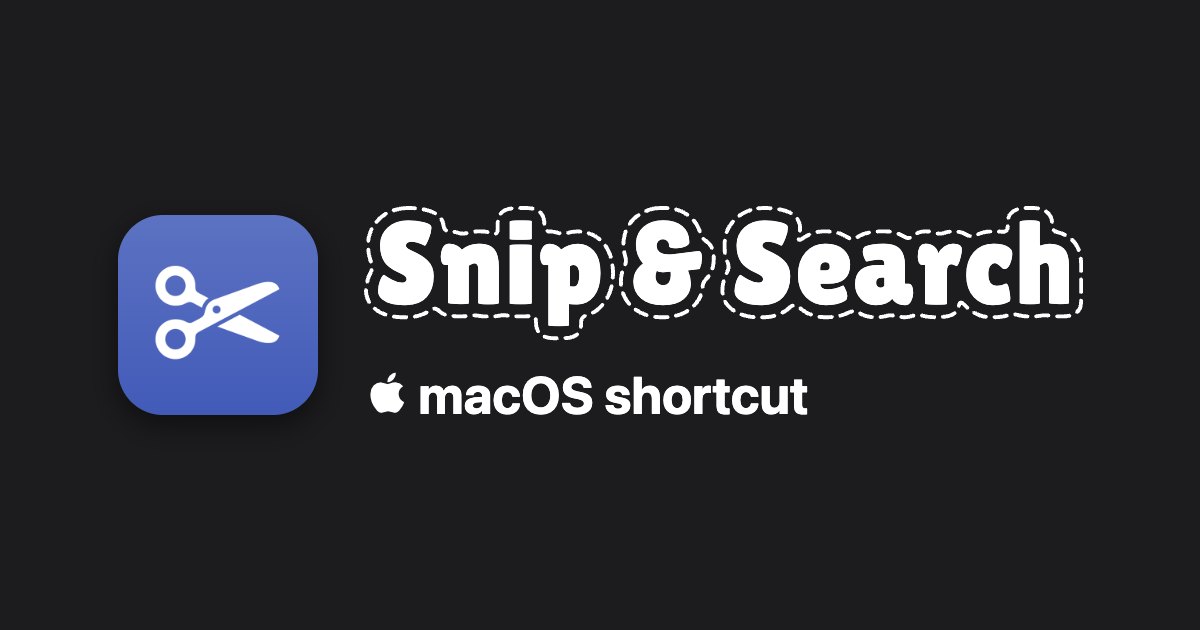
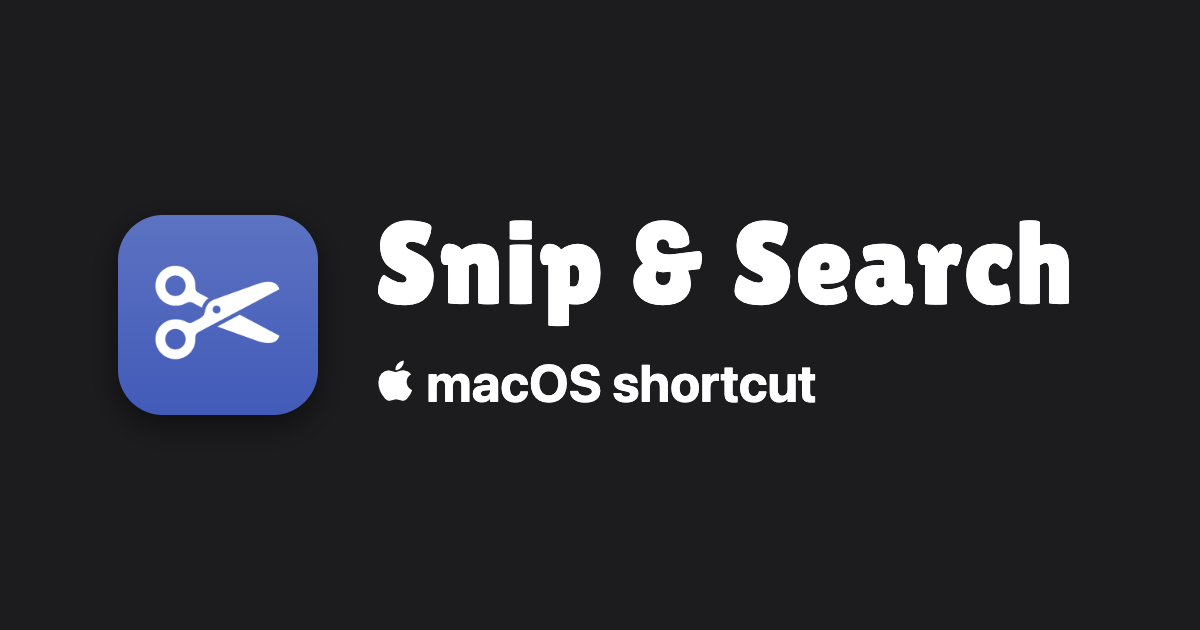
Drop the dashed outline from the title
With the shortcut's icon above it, the dashed "cut line" around the title
said "snip" twice. The title is now plain Lilita One (its viewBox cropped
to the letters), and the icon carries the idea. The link-preview image is
the updated portfolio card.

Claude-Session: https://claude.ai/code/session_01KeDHaCGVo6TUvr9Zcw6bTd

diff --git a/index.html b/index.html
@@ -61,31 +61,19 @@
 				/>
 				<h1>
 					<span class="visuallyHidden">Snip &amp; Search</span>
-					<!-- Same title as the portfolio project card
-					     (Personal-Site/scripts/images/templates/snipAndSearch.html):
-					     white Lilita One lettering with a dashed "cut line" traced
-					     around it. The outline path is copied from that template;
-					     viewBox crops the 1200x630 card to just the title. -->
+					<!-- The title in Lilita One, matching the portfolio project card
+					     (Personal-Site/scripts/images/templates/snipAndSearch.html).
+					     viewBox crops tightly around the letters. -->
 					<svg
 						id="title"
-						viewBox="128 196 940 190"
+						viewBox="152 220 892 142"
 						aria-hidden="true"
 						focusable="false"
 					>
-						<path
-							d="M186.5,208.0L188.5,207.8L190.5,207.7L192.5,207.5L194.5,207.5L196.5,207.5L198.5,207.6L200.5,207.7L202.5,207.9L204.5,208.0L206.5,208.3L208.5,208.6L210.5,208.9L212.5,209.2L214.5,209.5L216.5,210.0L218.5,210.5L220.5,211.0L222.5,211.7L224.5,212.5L226.5,213.4L228.5,214.5L230.4,215.8L232.3,217.3L234.0,218.9L235.4,220.7L236.7,222.5L237.7,224.5L238.3,226.5L238.9,228.5L239.2,230.5L239.6,232.4L240.3,234.0L241.1,235.3L242.3,236.3L243.7,237.0L245.5,237.4L247.5,237.5L249.5,237.7L251.5,237.9L253.5,238.2L255.5,238.7L257.5,239.3L259.5,239.8L261.5,240.2L263.5,240.3L265.5,240.3L267.5,240.0L269.5,239.7L271.5,239.0L273.5,238.6L275.5,238.2L277.5,237.9L279.5,237.7L281.5,237.6L283.5,237.5L285.5,237.5L287.5,237.5L289.5,237.6L291.5,237.7L293.5,238.0L295.5,238.3L297.5,238.7L299.5,239.3L301.5,240.1L303.4,240.5L305.0,240.6L306.3,240.2L307.3,239.4L308.0,238.2L308.4,236.5L308.5,234.5L308.5,232.5L308.5,230.5L308.5,228.5L308.5,226.5L308.7,224.5L308.9,222.5L309.3,220.5L310.0,218.5L311.0,216.6L312.3,214.8L313.8,213.2L315.6,211.8L317.5,210.7L319.5,209.8L321.5,209.1L323.5,208.6L325.5,208.2L327.5,207.9L329.5,207.7L331.5,207.6L333.5,207.5L335.5,207.5L337.5,207.5L339.5,207.5L341.5,207.5L343.5,207.5L345.5,207.5L347.5,207.7L349.5,207.8L351.5,208.0L353.5,208.3L355.5,208.8L357.5,209.5L359.5,210.4L361.3,211.6L363.0,213.0L364.5,214.7L365.7,216.5L366.7,218.5L367.3,220.5L367.8,222.5L368.1,224.5L368.3,226.5L368.4,228.5L368.5,230.5L368.6,232.5L369.0,234.1L369.7,235.4L370.7,236.4L372.0,237.1L373.6,237.5L375.5,237.7L377.5,237.7L379.5,238.0L381.5,238.3L383.5,238.7L385.5,239.3L387.5,239.9L389.5,240.2L391.5,240.3L393.5,240.3L395.5,240.0L397.5,239.7L399.5,239.1L401.5,238.7L403.5,238.3L405.5,238.0L407.5,237.8L409.5,237.7L411.5,237.5L413.5,237.7L415.5,237.8L417.5,238.0L419.5,238.3L421.5,238.8L423.5,239.3L425.5,240.0L427.5,240.7L429.5,241.6L431.5,242.6L433.5,243.7L435.5,245.0L437.5,246.4L439.5,248.0L441.3,249.7L443.2,251.6L444.9,253.5L446.4,255.5L447.8,257.5L449.0,259.5L450.0,261.5L451.0,263.5L451.8,265.5L452.6,267.5L453.2,269.5L453.8,271.5L454.3,273.5L454.7,275.5L455.0,277.5L455.4,279.5L455.7,281.5L456.0,283.5L456.1,285.5L456.3,287.5L456.4,289.5L456.5,291.5L456.3,293.5L456.2,295.5L456.0,297.5L455.9,299.5L455.6,301.5L455.3,303.5L454.9,305.5L454.6,307.5L454.1,309.5L453.6,311.5L453.0,313.5L452.3,315.5L451.5,317.5L450.7,319.5L449.7,321.5L448.6,323.5L447.4,325.5L446.1,327.5L444.7,329.5L443.0,331.5L441.3,333.4L439.4,335.3L437.5,337.0L435.5,338.6L433.5,340.0L431.5,341.2L429.5,342.2L427.5,343.2L425.5,344.0L423.5,344.7L421.5,345.3L419.7,346.2L418.3,347.2L417.1,348.4L416.3,349.9L415.7,351.6L415.5,353.5L415.5,355.5L415.5,357.5L415.3,359.5L415.0,361.5L414.5,363.5L413.7,365.4L412.5,367.2L411.0,368.8L409.3,370.3L407.5,371.4L405.5,372.3L403.5,373.0L401.5,373.6L399.5,374.0L397.5,374.2L395.5,374.3L393.5,374.5L391.5,374.5L389.5,374.5L387.5,374.5L385.5,374.5L383.5,374.5L381.5,374.5L379.5,374.4L377.5,374.3L375.5,374.1L373.5,373.8L371.5,373.3L369.5,372.7L367.5,371.9L365.6,370.9L363.8,369.6L362.2,368.0L360.9,366.3L359.8,364.5L359.0,362.5L358.4,360.5L358.0,358.5L357.8,356.5L357.7,354.5L357.5,352.5L357.4,350.5L357.0,348.9L356.3,347.6L355.3,346.7L354.0,346.1L352.4,345.9L350.5,346.0L348.5,346.2L346.5,346.3L344.5,346.5L342.5,346.5L340.5,346.5L338.5,346.5L336.5,346.5L334.5,346.5L332.5,346.5L330.5,346.5L328.5,346.3L326.5,346.2L324.5,345.9L322.5,345.6L320.5,345.3L318.5,345.0L316.5,345.0L314.5,345.0L312.5,345.3L310.5,345.6L308.5,345.9L306.5,346.2L304.5,346.3L302.5,346.5L300.5,346.5L298.5,346.5L296.5,346.5L294.5,346.5L292.5,346.5L290.5,346.4L288.5,346.3L286.5,346.1L284.5,345.8L282.5,345.5L280.5,345.3L278.5,345.1L276.5,345.1L274.5,345.3L272.5,345.5L270.5,345.8L268.5,346.1L266.5,346.3L264.5,346.4L262.5,346.5L260.5,346.5L258.5,346.5L256.5,346.5L254.5,346.3L252.5,346.2L250.5,346.0L248.5,345.8L246.5,345.5L244.5,345.0L242.5,344.6L240.5,344.0L238.5,343.2L236.6,342.0L234.8,340.7L233.1,339.2L231.4,337.9L229.7,337.0L228.0,336.5L226.3,336.6L224.5,337.2L222.5,338.3L220.5,339.7L218.5,340.8L216.5,342.0L214.5,342.9L212.5,343.7L210.5,344.5L208.5,345.1L206.5,345.7L204.5,346.2L202.5,346.7L200.5,347.0L198.5,347.2L196.5,347.3L194.5,347.5L192.5,347.5L190.5,347.5L188.5,347.5L186.5,347.5L184.5,347.5L182.5,347.4L180.5,347.3L178.5,347.1L176.5,346.9L174.5,346.6L172.5,346.2L170.5,345.7L168.5,345.3L166.5,344.7L164.5,344.0L162.5,343.3L160.5,342.5L158.5,341.6L156.5,340.5L154.5,339.2L152.5,337.7L150.5,336.1L148.7,334.3L147.0,332.5L145.4,330.5L144.0,328.5L142.9,326.5L142.0,324.5L141.3,322.5L140.7,320.5L140.2,318.5L139.9,316.5L139.7,314.5L139.7,312.5L139.8,310.5L140.0,308.5L140.3,306.5L140.7,304.5L141.1,302.5L141.7,300.5L142.2,298.5L142.9,296.5L143.7,294.5L144.5,292.5L145.5,290.5L146.4,288.5L147.1,286.5L147.5,284.5L147.7,282.5L147.5,280.5L147.0,278.5L146.2,276.5L145.4,274.5L144.8,272.5L144.3,270.5L143.7,268.5L143.3,266.5L143.0,264.5L142.8,262.5L142.7,260.5L142.5,258.5L142.5,256.5L142.5,254.5L142.5,252.5L142.7,250.5L142.8,248.5L143.1,246.5L143.5,244.5L144.0,242.5L144.6,240.5L145.3,238.5L146.1,236.5L147.0,234.5L148.1,232.5L149.3,230.5L150.7,228.5L152.2,226.5L153.9,224.5L155.7,222.6L157.5,220.7L159.5,219.0L161.5,217.5L163.5,216.0L165.5,214.8L167.5,213.7L169.5,212.7L171.5,211.9L173.5,211.1L175.5,210.4L177.5,209.8L179.5,209.3L181.5,208.9L183.5,208.4L185.5,208.1Z M510.5,208.0L512.5,207.8L514.5,207.7L516.5,207.5L518.5,207.5L520.5,207.5L522.5,207.5L524.5,207.5L526.5,207.7L528.5,207.8L530.5,208.0L532.5,208.3L534.5,208.7L536.5,209.3L538.5,209.8L540.5,210.4L542.5,211.2L544.5,212.0L546.5,213.0L548.5,214.2L550.5,215.3L552.5,216.7L554.5,218.3L556.4,220.0L558.3,221.7L560.0,223.6L561.5,225.5L562.9,227.5L564.1,229.5L565.1,231.5L566.1,233.5L566.9,235.5L567.6,237.5L568.2,239.5L568.7,241.5L569.4,243.3L570.3,244.9L571.5,246.3L573.0,247.7L574.6,249.1L576.4,250.5L578.3,252.0L579.9,253.7L581.3,255.5L582.6,257.5L583.6,259.5L584.3,261.5L584.8,263.5L585.1,265.5L585.3,267.5L585.5,269.5L585.5,271.5L585.5,273.5L585.4,275.5L585.3,277.5L585.0,279.5L584.7,281.5L584.3,283.5L583.7,285.5L583.0,287.5L582.3,289.5L581.3,291.5L580.2,293.5L578.8,295.3L577.2,297.0L575.7,298.7L574.3,300.4L573.1,302.1L572.3,303.8L571.7,305.6L571.3,307.5L571.2,309.5L570.9,311.5L570.5,313.5L570.0,315.5L569.4,317.5L568.7,319.5L567.9,321.5L567.0,323.5L565.8,325.5L564.5,327.5L563.0,329.5L561.3,331.5L559.4,333.3L557.5,335.1L555.5,336.8L553.5,338.3L551.5,339.7L549.5,340.9L547.5,342.0L545.5,342.9L543.5,343.7L541.5,344.4L539.5,345.0L537.5,345.5L535.5,346.0L533.5,346.5L531.5,346.8L529.5,347.1L527.5,347.3L525.5,347.4L523.5,347.5L521.5,347.5L519.5,347.5L517.5,347.5L515.5,347.5L513.5,347.3L511.5,347.2L509.5,347.0L507.5,346.7L505.5,346.3L503.5,345.8L501.5,345.3L499.5,344.7L497.5,344.0L495.5,343.3L493.5,342.4L491.5,341.5L489.5,340.4L487.5,339.1L485.5,337.8L483.5,336.3L481.6,334.8L479.7,333.1L478.0,331.3L476.3,329.4L474.8,327.5L473.5,325.5L472.3,323.5L471.2,321.5L470.3,319.5L469.4,317.5L468.7,315.5L468.1,313.5L467.6,311.5L467.2,309.5L466.9,307.5L466.7,305.5L466.6,303.5L466.5,301.5L466.6,299.5L466.7,297.5L467.0,295.5L467.3,293.5L467.7,291.5L468.3,289.5L469.0,287.5L469.7,285.5L470.6,283.5L471.5,281.5L472.2,279.5L472.7,277.5L472.9,275.5L472.9,273.5L472.6,271.5L472.0,269.5L471.5,267.5L471.1,265.5L470.7,263.5L470.3,261.5L470.0,259.5L469.9,257.5L469.7,255.5L469.7,253.5L469.8,251.5L470.0,249.5L470.3,247.5L470.6,245.5L471.0,243.5L471.5,241.5L472.0,239.5L472.7,237.5L473.5,235.5L474.4,233.5L475.5,231.5L476.7,229.5L478.0,227.5L479.4,225.5L481.0,223.7L482.7,221.8L484.6,220.0L486.5,218.4L488.5,217.0L490.5,215.7L492.5,214.4L494.5,213.3L496.5,212.3L498.5,211.5L500.5,210.7L502.5,210.0L504.5,209.3L506.5,208.8L508.5,208.3Z M642.5,208.0L644.5,207.8L646.5,207.7L648.5,207.5L650.5,207.5L652.5,207.5L654.5,207.6L656.5,207.7L658.5,207.9L660.5,208.0L662.5,208.2L664.5,208.5L666.5,208.8L668.5,209.0L670.5,209.3L672.5,209.8L674.5,210.3L676.5,210.8L678.5,211.4L680.5,212.2L682.5,213.0L684.5,214.1L686.4,215.3L688.3,216.7L690.0,218.2L691.5,219.9L692.8,221.7L693.9,223.6L694.7,225.5L695.4,227.5L695.9,229.5L696.1,231.5L696.1,233.5L696.1,235.5L695.9,237.5L695.6,239.5L695.1,241.5L694.6,243.5L694.2,245.5L694.1,247.0L694.3,248.0L695.0,248.4L696.1,248.3L697.6,247.7L699.5,246.6L701.5,245.2L703.5,244.0L705.5,242.8L707.5,241.8L709.5,241.0L711.5,240.2L713.5,239.5L715.5,238.9L717.5,238.4L719.5,238.1L721.5,237.8L723.5,237.7L725.5,237.5L727.5,237.5L729.5,237.5L731.5,237.5L733.5,237.6L735.5,237.7L737.5,237.9L739.5,238.2L741.5,238.6L743.5,239.0L745.5,239.7L747.5,240.3L749.5,241.0L751.5,242.0L753.5,243.0L755.5,244.1L757.5,245.3L759.5,246.4L761.3,247.0L763.2,247.3L765.0,247.0L766.9,246.4L768.7,245.4L770.6,244.2L772.5,243.0L774.5,242.1L776.5,241.3L778.5,240.6L780.5,240.0L782.5,239.5L784.5,239.0L786.5,238.6L788.5,238.3L790.5,238.0L792.5,237.8L794.5,237.7L796.5,237.5L798.5,237.5L800.5,237.5L802.5,237.5L804.5,237.5L806.5,237.5L808.5,237.6L810.5,237.7L812.5,238.0L814.5,238.3L816.5,238.7L818.5,239.3L820.5,240.0L822.5,240.7L824.5,241.5L826.5,242.4L828.5,243.5L830.5,244.7L832.4,245.6L834.3,246.0L836.1,245.9L838.0,245.3L839.8,244.3L841.7,243.0L843.5,241.5L845.5,240.2L847.5,239.2L849.5,238.5L851.5,238.0L853.5,237.7L855.5,237.6L857.5,237.5L859.5,237.6L861.5,237.7L863.5,238.0L865.5,238.4L867.5,239.0L869.5,239.6L871.5,240.1L873.5,240.3L875.5,240.4L877.5,240.3L879.5,240.0L881.5,239.3L883.5,238.7L885.5,238.3L887.5,238.0L889.5,237.7L891.5,237.6L893.5,237.5L895.5,237.7L897.5,237.8L899.5,238.1L901.5,238.5L903.5,239.0L905.5,239.8L907.5,240.7L909.5,241.8L911.5,242.7L913.5,243.3L915.5,243.7L917.5,243.6L919.5,243.2L921.5,242.4L923.5,241.5L925.5,240.7L927.5,240.0L929.5,239.3L931.5,238.8L933.5,238.3L935.5,238.0L937.5,237.8L939.5,237.7L941.5,237.5L943.5,237.5L945.5,237.5L947.5,237.5L949.5,237.5L951.5,237.7L953.5,237.8L955.5,238.0L957.4,238.0L959.0,237.6L960.3,236.9L961.3,235.8L962.0,234.3L962.4,232.5L962.5,230.5L962.5,228.5L962.5,226.5L962.6,224.5L962.8,222.5L963.2,220.5L963.9,218.5L964.9,216.6L966.2,214.8L967.8,213.2L969.6,211.8L971.5,210.7L973.5,209.7L975.5,209.0L977.5,208.5L979.5,208.1L981.5,207.8L983.5,207.7L985.5,207.5L987.5,207.5L989.5,207.5L991.5,207.5L993.5,207.5L995.5,207.5L997.5,207.7L999.5,207.8L1001.5,208.0L1003.5,208.4L1005.5,209.0L1007.5,209.7L1009.5,210.7L1011.4,211.8L1013.2,213.3L1014.8,214.9L1016.2,216.7L1017.3,218.5L1018.2,220.5L1018.7,222.5L1019.1,224.5L1019.3,226.5L1019.5,228.5L1019.5,230.5L1019.7,232.4L1020.3,234.1L1021.1,235.6L1022.3,236.7L1023.7,237.7L1025.5,238.3L1027.5,238.9L1029.5,239.5L1031.5,240.1L1033.5,240.9L1035.5,241.8L1037.5,242.8L1039.5,244.0L1041.5,245.4L1043.5,247.0L1045.3,248.7L1047.1,250.5L1048.7,252.5L1050.1,254.5L1051.3,256.5L1052.3,258.5L1053.2,260.5L1053.9,262.5L1054.4,264.5L1055.0,266.5L1055.5,268.5L1055.8,270.5L1056.1,272.5L1056.3,274.5L1056.4,276.5L1056.5,278.5L1056.5,280.5L1056.5,282.5L1056.5,284.5L1056.5,286.5L1056.5,288.5L1056.5,290.5L1056.5,292.5L1056.5,294.5L1056.5,296.5L1056.5,298.5L1056.5,300.5L1056.5,302.5L1056.5,304.5L1056.5,306.5L1056.5,308.5L1056.5,310.5L1056.5,312.5L1056.5,314.5L1056.5,316.5L1056.5,318.5L1056.5,320.5L1056.5,322.5L1056.5,324.5L1056.5,326.5L1056.5,328.5L1056.3,330.5L1056.0,332.5L1055.5,334.5L1054.7,336.5L1053.5,338.4L1052.0,340.2L1050.3,341.7L1048.5,343.0L1046.5,344.0L1044.5,344.9L1042.5,345.4L1040.5,345.8L1038.5,346.1L1036.5,346.3L1034.5,346.4L1032.5,346.5L1030.5,346.5L1028.5,346.5L1026.5,346.5L1024.5,346.4L1022.5,346.3L1020.5,346.1L1018.5,345.9L1016.5,345.6L1014.5,345.3L1012.5,345.1L1010.5,345.1L1008.5,345.1L1006.5,345.3L1004.5,345.6L1002.5,345.9L1000.5,346.1L998.5,346.3L996.5,346.4L994.5,346.5L992.5,346.5L990.5,346.5L988.5,346.5L986.5,346.4L984.5,346.3L982.5,346.1L980.5,345.8L978.5,345.5L976.5,345.0L974.5,344.4L972.5,344.1L970.5,344.0L968.5,344.0L966.5,344.1L964.5,344.5L962.5,345.0L960.5,345.6L958.5,346.1L956.5,346.6L954.5,346.9L952.5,347.1L950.5,347.3L948.5,347.4L946.5,347.5L944.5,347.5L942.5,347.5L940.5,347.5L938.5,347.4L936.5,347.3L934.5,347.0L932.5,346.7L930.5,346.3L928.5,345.7L926.5,345.0L924.5,344.3L922.5,343.4L920.5,342.4L918.5,341.3L916.5,340.0L914.5,338.6L912.5,337.0L910.5,335.3L908.7,333.4L906.8,331.5L905.0,330.0L903.6,329.0L902.4,328.7L901.5,329.0L900.7,330.0L900.1,331.5L899.7,333.5L899.1,335.5L898.3,337.4L897.1,339.3L895.8,340.9L894.2,342.3L892.4,343.7L890.5,344.7L888.5,345.3L886.5,345.9L884.5,346.3L882.5,346.7L880.5,347.0L878.5,347.1L876.5,347.3L874.5,347.4L872.5,347.5L870.5,347.5L868.5,347.5L866.5,347.4L864.5,347.3L862.5,347.1L860.5,347.0L858.5,346.7L856.5,346.3L854.5,345.8L852.5,345.3L850.5,344.9L848.5,344.7L846.5,344.6L844.5,344.7L842.5,345.2L840.5,345.7L838.5,346.3L836.5,346.9L834.5,347.2L832.5,347.4L830.5,347.5L828.5,347.5L826.5,347.3L824.5,347.2L822.5,346.9L820.5,346.4L818.5,345.9L816.5,345.4L814.5,345.2L812.5,345.1L810.5,345.2L808.5,345.4L806.5,346.0L804.5,346.4L802.5,346.8L800.5,347.1L798.5,347.3L796.5,347.4L794.5,347.5L792.5,347.5L790.5,347.5L788.5,347.3L786.5,347.2L784.5,346.9L782.5,346.4L780.5,345.9L778.5,345.2L776.5,344.3L774.5,343.4L772.5,342.3L770.5,341.3L768.5,340.5L766.5,340.0L764.5,340.0L762.5,340.2L760.5,340.7L758.5,341.6L756.5,342.4L754.5,343.3L752.5,344.0L750.5,344.7L748.5,345.3L746.5,345.7L744.5,346.2L742.5,346.6L740.5,346.9L738.5,347.1L736.5,347.3L734.5,347.4L732.5,347.5L730.5,347.5L728.5,347.5L726.5,347.5L724.5,347.3L722.5,347.2L720.5,347.0L718.5,346.7L716.5,346.2L714.5,345.7L712.5,345.0L710.5,344.3L708.5,343.5L706.5,342.7L704.5,341.7L702.5,340.5L700.5,339.2L698.5,337.7L696.5,336.1L694.5,334.4L692.5,333.2L690.5,332.4L688.7,332.3L686.8,332.6L685.0,333.5L683.1,334.9L681.3,336.5L679.4,338.0L677.5,339.3L675.5,340.5L673.5,341.7L671.5,342.7L669.5,343.5L667.5,344.3L665.5,345.0L663.5,345.6L661.5,346.1L659.5,346.6L657.5,346.9L655.5,347.2L653.5,347.3L651.5,347.5L649.5,347.5L647.5,347.5L645.5,347.5L643.5,347.5L641.5,347.5L639.5,347.5L637.5,347.3L635.5,347.2L633.5,347.0L631.5,346.7L629.5,346.3L627.5,345.9L625.5,345.4L623.5,344.9L621.5,344.2L619.5,343.4L617.5,342.6L615.5,341.7L613.5,340.5L611.5,339.3L609.6,338.0L607.7,336.5L605.9,334.9L604.2,333.2L602.7,331.3L601.3,329.5L600.2,327.5L599.2,325.5L598.3,323.5L597.7,321.5L597.3,319.5L597.0,317.5L596.7,315.5L596.6,313.5L596.7,311.5L596.8,309.5L597.0,307.5L597.3,305.5L597.7,303.5L598.1,301.5L598.7,299.5L599.3,297.5L600.0,295.5L600.8,293.5L601.8,291.5L602.8,289.5L603.7,287.5L604.2,285.5L604.5,283.5L604.4,281.5L604.1,279.5L603.5,277.5L602.7,275.5L602.0,273.5L601.3,271.5L600.7,269.5L600.3,267.5L600.0,265.5L599.7,263.5L599.6,261.5L599.5,259.5L599.5,257.5L599.5,255.5L599.5,253.5L599.5,251.5L599.7,249.5L599.8,247.5L600.1,245.5L600.5,243.5L601.0,241.5L601.7,239.5L602.5,237.5L603.3,235.5L604.3,233.5L605.5,231.5L606.8,229.5L608.2,227.5L609.7,225.7L611.3,223.8L613.0,222.0L614.8,220.3L616.7,218.8L618.5,217.3L620.5,216.0L622.5,214.7L624.5,213.7L626.5,212.7L628.5,211.7L630.5,211.0L632.5,210.3L634.5,209.7L636.5,209.2L638.5,208.7L640.5,208.3Z"
-							fill="none"
-							stroke="#fff"
-							stroke-width="5"
-							stroke-dasharray="16 11"
-							stroke-linecap="round"
-							stroke-linejoin="round"
-						/>
-						<!-- The title's letters as vector shapes (Lilita One, 150px,
-						     2px letter spacing, kerned), not live text, so every
-						     browser draws them identically and they always sit
-						     inside the traced outline. (As live text inside the
-						     bold h1, Safari faux-bolded them past the outline.) -->
+						<!-- The letters as vector shapes (Lilita One's glyph outlines,
+						     150px, 2px letter spacing, kerned), not live text, so
+						     every browser draws them identically. (As live text
+						     inside the bold h1, Safari faux-bolded them.) -->
 						<path
 							fill="#fff"
 							d="M162.80 293.40L162.80 293.40Q165.65 295.65 172.63 299.55Q179.60 303.45 185.97 303.45Q192.35 303.45 192.35 298.50L192.35 298.50Q192.35 296.25 190.55 294.52Q188.75 292.80 183.95 290.55Q179.15 288.30 176.75 287.02Q174.35 285.75 170.38 282.82Q166.40 279.90 164.30 276.75L164.30 276.75Q158.30 268.20 158.30 255Q158.30 241.80 168.13 232.73Q177.95 223.65 193.85 223.65L193.85 223.65Q204.65 223.65 213.80 225.98Q222.95 228.30 223.25 232.05L223.25 232.05Q223.25 232.50 223.25 232.95L223.25 232.95Q223.25 238.20 219.95 246.23Q216.65 254.25 215.30 255.15L215.30 255.15Q205.70 250.20 198.13 250.20Q190.55 250.20 190.55 255.60L190.55 255.60Q190.55 258.90 196.10 261.45L196.10 261.45Q197.30 262.05 199.55 263.10Q201.80 264.15 204.72 265.57Q207.65 267 211.03 269.18Q214.40 271.35 218.30 274.95L218.30 274.95Q226.25 282.45 226.25 294.75L226.25 294.75Q226.25 310.80 217.40 321Q208.55 331.20 190.10 331.50L190.10 331.50Q181.10 331.50 173.83 330Q166.55 328.50 161.15 324.15Q155.75 319.80 155.75 313.65Q155.75 307.50 158 301.43Q160.25 295.35 162.80 293.40ZM271.15 280.95L271.15 329.10Q271.15 330.15 260.35 330.15L260.35 330.15Q245.35 329.70 245.35 328.50L245.35 328.50L245.35 279.90L241.45 279.90Q237.55 279.90 236.35 273.30L236.35 273.30Q236.05 271.35 236.05 269.40L236.05 269.40Q236.05 264.75 237.85 260.10L237.85 260.10Q240.55 253.50 246.25 253.50Q251.95 253.50 256.45 256.20Q260.95 258.90 262.45 261.60L262.45 261.60Q271.90 253.50 284.95 253.50Q298 253.50 303.85 260.55Q309.70 267.60 309.70 283.65L309.70 283.65L309.70 328.65Q309.70 330.45 296.88 330.45Q284.05 330.45 284.05 328.65L284.05 328.65L284.05 285.30Q284.05 277.80 278.80 277.80L278.80 277.80Q277.30 277.80 274.60 279.07Q271.90 280.35 271.15 280.95L271.15 280.95ZM351.90 255.45L351.90 329.10Q351.90 330.30 338.18 330.30Q324.45 330.30 324.45 329.25L324.45 329.25L324.45 255.60Q324.45 254.55 338.18 254.55Q351.90 254.55 351.90 255.45L351.90 255.45ZM351.90 224.55L351.90 246.60Q351.90 247.65 338.18 247.65Q324.45 247.65 324.45 246.75L324.45 246.75L324.45 225.15Q324.45 223.65 338.18 223.65Q351.90 223.65 351.90 224.55L351.90 224.55ZM399.65 330L399.65 357.30Q399.65 358.35 386.82 358.35Q374 358.35 374 357.30L374 357.30L374 280.05L368.90 280.05Q365.30 280.05 363.95 273.45L363.95 273.45Q363.50 271.35 363.50 268.05Q363.50 264.75 365.60 260.25L365.60 260.25Q368.60 253.65 375.20 253.65L375.20 253.65Q379.55 253.65 383.22 255.68Q386.90 257.70 388.32 259.43Q389.75 261.15 389.75 261.45L389.75 261.45Q399.80 253.65 411.50 253.65Q423.20 253.65 431.60 262.73Q440 271.80 440 290.77Q440 309.75 431.60 320.18Q423.20 330.60 410.30 330.60L410.30 330.60Q404.45 330.60 399.65 330L399.65 330ZM405.80 279.90L405.80 279.90Q403.25 279.90 400.85 281.55L400.85 281.55L400.85 308.10Q403.40 308.40 404.97 308.40Q406.55 308.40 407.45 308.40L407.45 308.40Q413.60 307.80 413.60 292.65L413.60 292.65Q413.60 279.90 405.80 279.90ZM528.45 256.65L528.45 256.65L528.60 255.15Q528.60 251.40 526.13 249.15Q523.65 246.90 520.05 246.90Q516.45 246.90 514.05 249.30Q511.65 251.70 511.65 255.90L511.65 255.90Q511.65 267.30 527.70 267.30L527.70 267.30Q531.30 267.30 535.80 266.70L535.80 266.70Q565.35 262.95 565.65 262.95L565.65 262.95Q569.85 262.95 569.85 271.50L569.85 271.50Q569.85 278.40 567 285.15L567 285.15L551.70 286.95Q555.60 296.40 555.60 304.05L555.60 304.05Q555.60 315.90 546.52 323.70Q537.45 331.50 520.13 331.50Q502.80 331.50 492.75 323.02Q482.70 314.55 482.70 301.27Q482.70 288 495.45 278.55L495.45 278.55Q486.00 268.05 486.00 254.25Q486.00 240.45 495.60 231.98Q505.20 223.50 520.50 223.50Q535.80 223.50 544.72 231Q553.65 238.50 553.65 251.25L553.65 251.25Q553.65 253.80 548.77 256.20Q543.90 258.60 537.15 258.60Q530.40 258.60 528.45 256.65ZM511.95 287.25L511.95 287.25Q510.30 291.60 510.30 294.98Q510.30 298.35 511.35 300.90L511.35 300.90Q513.75 306.75 520.95 306.75L520.95 306.75Q526.05 306.75 528.38 303.07Q530.70 299.40 530.70 293.85L530.70 293.85Q530.70 291.30 530.55 290.02Q530.40 288.75 530.40 288.45L530.40 288.45Q525.30 289.35 520.35 289.35Q515.40 289.35 511.95 287.25ZM619.75 293.40L619.75 293.40Q622.60 295.65 629.58 299.55Q636.55 303.45 642.93 303.45Q649.30 303.45 649.30 298.50L649.30 298.50Q649.30 296.25 647.50 294.52Q645.70 292.80 640.90 290.55Q636.10 288.30 633.70 287.02Q631.30 285.75 627.33 282.82Q623.35 279.90 621.25 276.75L621.25 276.75Q615.25 268.20 615.25 255Q615.25 241.80 625.08 232.73Q634.90 223.65 650.80 223.65L650.80 223.65Q661.60 223.65 670.75 225.98Q679.90 228.30 680.20 232.05L680.20 232.05Q680.20 232.50 680.20 232.95L680.20 232.95Q680.20 238.20 676.90 246.23Q673.60 254.25 672.25 255.15L672.25 255.15Q662.65 250.20 655.08 250.20Q647.50 250.20 647.50 255.60L647.50 255.60Q647.50 258.90 653.05 261.45L653.05 261.45Q654.25 262.05 656.50 263.10Q658.75 264.15 661.68 265.57Q664.60 267 667.98 269.18Q671.35 271.35 675.25 274.95L675.25 274.95Q683.20 282.45 683.20 294.75L683.20 294.75Q683.20 310.80 674.35 321Q665.50 331.20 647.05 331.50L647.05 331.50Q638.05 331.50 630.77 330Q623.50 328.50 618.10 324.15Q612.70 319.80 612.70 313.65Q612.70 307.50 614.95 301.43Q617.20 295.35 619.75 293.40ZM753.45 325.95L753.45 325.95Q744 331.50 729.15 331.50Q714.30 331.50 704.10 321.38Q693.90 311.25 693.90 293.32Q693.90 275.40 703.73 264.45Q713.55 253.50 728.55 253.50Q743.55 253.50 751.73 261.15Q759.90 268.80 759.90 279.75L759.90 279.75Q759.90 304.05 732 304.05L732 304.05L721.65 304.05Q721.65 308.55 724.13 310.27Q726.60 312 731.40 312L731.40 312Q741.90 312 751.35 307.20L751.35 307.20Q751.50 307.05 752.70 309.30L752.70 309.30Q756.30 315.75 756.30 320.18Q756.30 324.60 753.45 325.95ZM734.70 282.60L734.70 282.60Q734.70 276.30 728.55 276.30L728.55 276.30Q725.70 276.30 723.67 278.02Q721.65 279.75 721.65 283.05L721.65 283.05L721.65 287.70L729.75 287.70Q734.70 287.70 734.70 282.60ZM781.10 275.55L781.10 275.55Q776.90 268.05 776.90 263.32Q776.90 258.60 779.45 257.25L779.45 257.25Q788 253.50 802.92 253.50Q817.85 253.50 824 260.48Q830.15 267.45 830.15 281.10L830.15 281.10L830.15 304.80L835.25 304.80Q837.80 304.80 839.23 307.80Q840.65 310.80 840.65 316.05Q840.65 321.30 838.02 326.40Q835.40 331.50 830.90 331.50L830.90 331.50Q822.80 331.50 817.85 327.15L817.85 327.15Q815.60 325.35 814.40 322.80L814.40 322.80Q807.50 331.50 792.95 331.50L792.95 331.50Q782 331.50 774.50 323.70Q767 315.90 767 305.25L767 305.25Q767 280.80 796.25 280.80L796.25 280.80L804.50 280.80L804.50 279.30Q804.50 275.40 803.23 274.27Q801.95 273.15 797.30 273.15L797.30 273.15Q791.60 273.15 781.10 275.55ZM793.10 303.15L793.10 303.15Q793.10 306.45 794.90 308.18Q796.70 309.90 799.48 309.90Q802.25 309.90 804.50 307.65L804.50 307.65L804.50 296.10L800.30 296.10Q793.10 296.10 793.10 303.15ZM884.05 288L884.05 329.85Q884.05 330.90 870.40 330.90L870.40 330.90Q856.75 330.60 856.75 329.70L856.75 329.70L856.75 279.90L852.70 279.90Q850.30 279.90 848.87 276.98Q847.45 274.05 847.45 269.70L847.45 269.70Q847.45 253.50 857.05 253.50L857.05 253.50Q863.80 253.50 868.30 257.63Q872.80 261.75 872.80 267L872.80 267Q875.95 260.85 881.27 257.18Q886.60 253.50 892.15 253.50L892.15 253.50Q900.85 253.50 902.65 258L902.65 258Q903.10 259.20 903.10 261.52Q903.10 263.85 901.67 269.85Q900.25 275.85 898.75 278.55Q897.25 281.25 896.95 281.25Q896.65 281.25 894.17 280.13Q891.70 279 889.75 279L889.75 279Q884.05 279 884.05 288L884.05 288ZM937.20 292.80L937.20 292.80Q937.20 307.50 948.30 307.50L948.30 307.50Q955.50 307.50 960.30 304.65L960.30 304.65Q962.55 304.65 963.97 312.38Q965.40 320.10 965.40 322.88Q965.40 325.65 964.65 326.55L964.65 326.55Q956.70 331.50 942.90 331.50Q929.10 331.50 919.42 321.23Q909.75 310.95 909.75 293.18Q909.75 275.40 919.27 264.45Q928.80 253.50 944.62 253.50Q960.45 253.50 966.60 261.15L966.60 261.15Q967.95 262.80 967.95 266.02Q967.95 269.25 966.75 273.90L966.75 273.90Q964.05 283.50 959.70 285L959.70 285Q959.10 285.15 957.97 285.15Q956.85 285.15 955.20 283.35L955.20 283.35Q949.35 277.50 945.82 277.50Q942.30 277.50 939.75 281.10Q937.20 284.70 937.20 292.80ZM1003.25 280.35L1003.25 328.95Q1003.25 330.30 990.72 330.30Q978.20 330.30 978.20 328.20L978.20 328.20L978.20 225.45Q978.20 224.40 982.85 223.95Q987.50 223.50 990.65 223.50L990.65 223.50Q1003.25 223.50 1003.25 226.20L1003.25 226.20L1003.25 256.20Q1011.65 253.65 1016.00 253.65L1016.00 253.65Q1027.40 253.65 1034 259.73Q1040.60 265.80 1040.60 282.30L1040.60 282.30L1040.60 328.80Q1040.60 330.15 1028.90 330.15L1028.90 330.15Q1015.70 329.70 1015.70 328.65L1015.70 328.65L1015.70 284.55Q1015.70 277.20 1010.90 277.20L1010.90 277.20Q1007.60 277.20 1003.25 280.35L1003.25 280.35Z"

diff --git a/style.css b/style.css
@@ -145,7 +145,7 @@ header .sectionContent {
    text on the page. (Its letters render at ~16% of this width.) */
 #title {
 	display: block;
-	width: min(300px, 62vw);
+	width: min(280px, 58vw);
 	height: auto;
 	margin-inline: auto;
 	overflow: visible;

diff --git a/README.md b/README.md
@@ -17,7 +17,7 @@ fonts/          # Self-hosted Lilita One + its license
 og-image.png    # Social preview image
 ```
 
-The header title (Lilita One with a dashed "cut line" outline) matches the portfolio project card, `Personal-Site/scripts/images/templates/snipAndSearch.html`. Both parts are SVG paths in `index.html`: the outline is copied from that template, and the letters are Lilita One's glyph outlines (150px, 2px letter spacing, kerned) rather than live text, so every browser draws them identically inside the outline. If the title's wording or font changes, regenerate both (the outline with the template's trace script).
+The header title is Lilita One, matching the portfolio project card (`Personal-Site/scripts/images/templates/snipAndSearch.html`). It's an SVG path in `index.html`, Lilita One's glyph outlines (150px, 2px letter spacing, kerned) rather than live text, so every browser draws it identically. If the wording or font changes, regenerate the path.
 
 To preview locally, open `index.html` in a browser (or serve the folder with any static server, e.g. `npx http-server .`). Netlify publishes the repo as-is.
 
